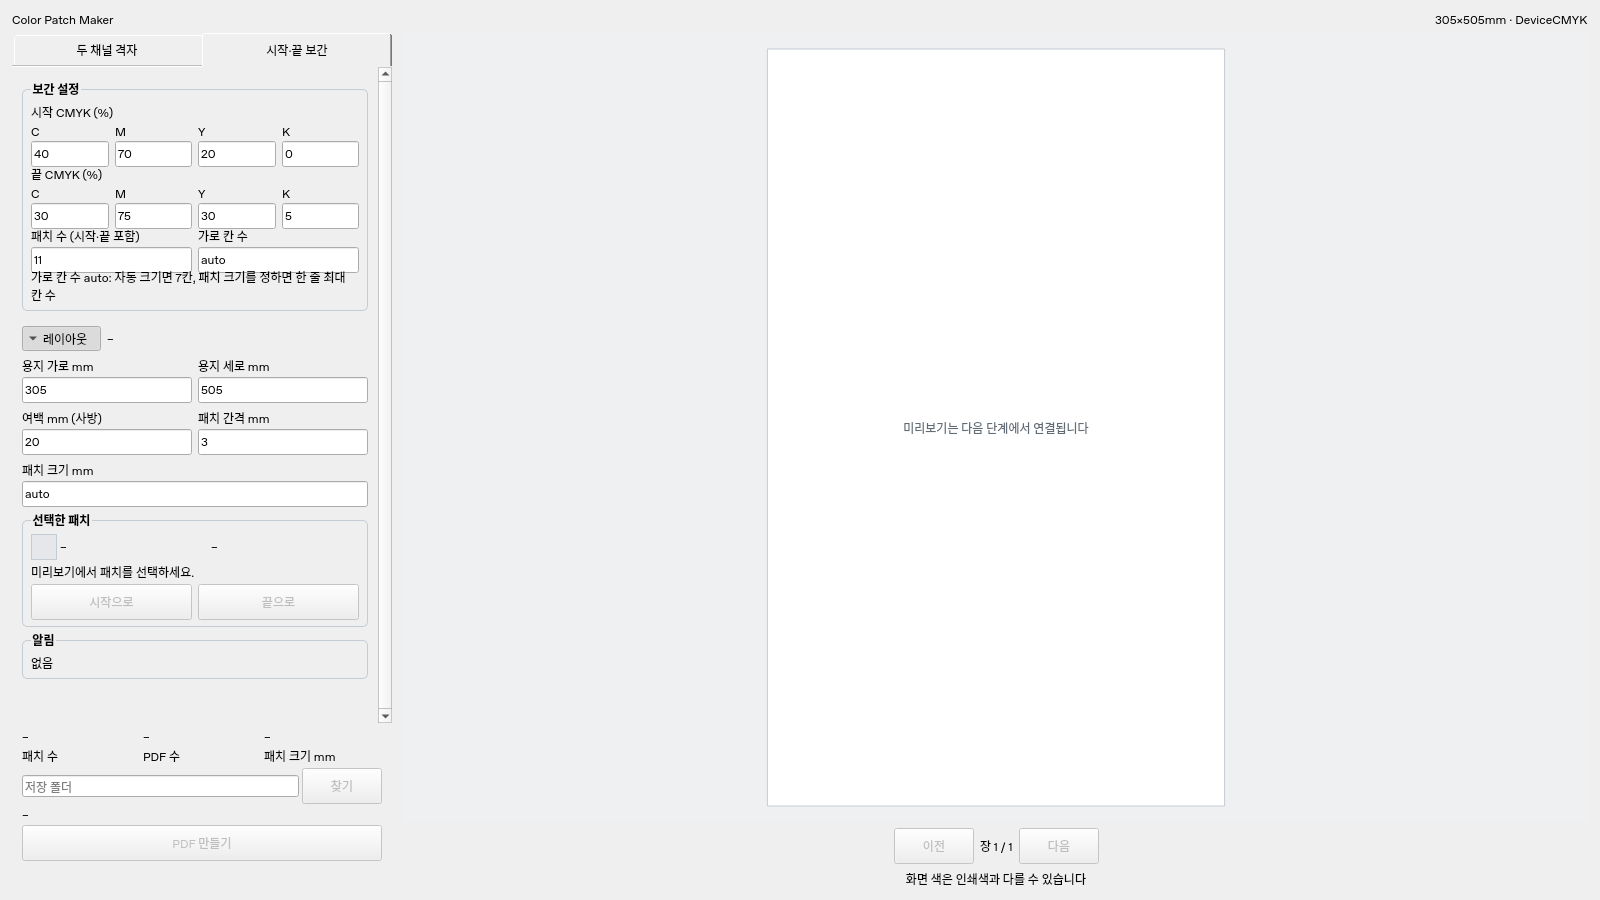
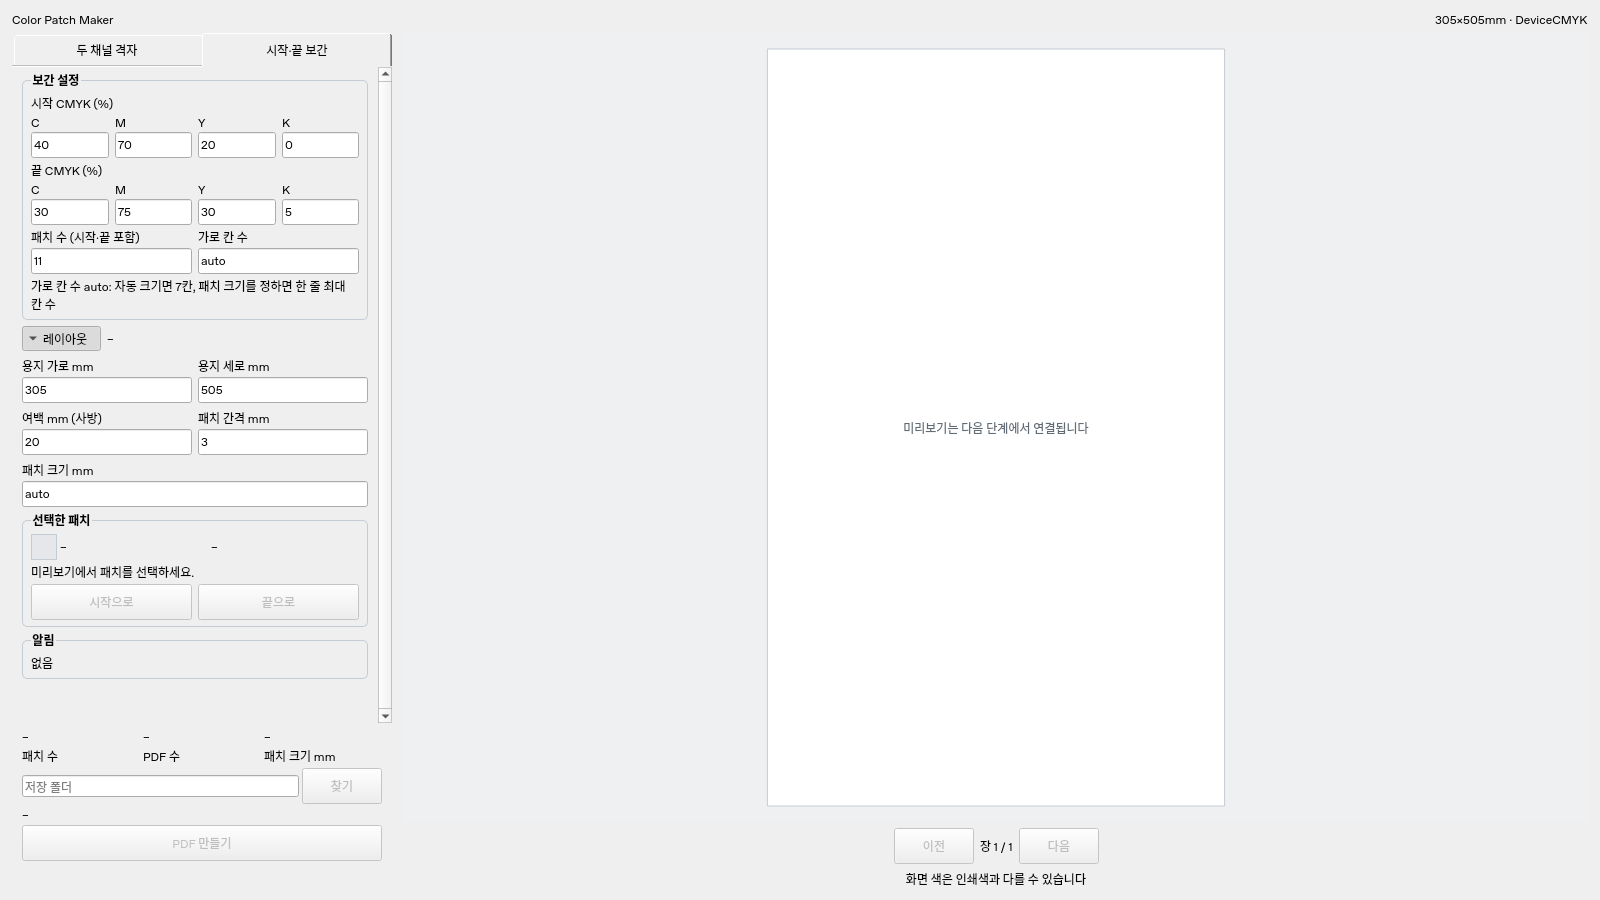
Stabilize shared GUI geometry across mode changes

Changed region(s): [[0.0, 0.2178, 0.2188, 0.3422], [0.0, 0.0622, 0.2188, 0.2178]]

diff --git a/color_patch_maker/gui/sidebar.py b/color_patch_maker/gui/sidebar.py
@@ -3,7 +3,7 @@ from PySide6.QtCore import Qt
 from PySide6.QtWidgets import (
     QWidget, QVBoxLayout, QHBoxLayout, QLabel, QLineEdit,
     QComboBox, QPushButton, QToolButton, QTabBar, QScrollArea, QGroupBox,
-    QSizePolicy,
+    QSizePolicy, QStackedWidget,
 )
 
 
@@ -38,6 +38,19 @@ class ErrorLabel(QLabel):
         self.setVisible(bool(text))
 
 
+class StableStack(QStackedWidget):
+    """Use all pages' wrapped heights, not just the active page's height."""
+    def heightForWidth(self, width):
+        return max(self.widget(i).heightForWidth(width) if self.widget(i).hasHeightForWidth()
+                   else self.widget(i).sizeHint().height() for i in range(self.count()))
+
+    def sizeHint(self):
+        hint = super().sizeHint()
+        if self.count() and self.width() > 0:
+            hint.setHeight(max(hint.height(), self.heightForWidth(self.width())))
+        return hint
+
+
 class Sidebar(QWidget):
     def __init__(self):
         super().__init__()
@@ -70,13 +83,23 @@ class Sidebar(QWidget):
         channel.addItems(['CM', 'CY', 'CK', 'MY', 'MK', 'YK'])
         self.row(grid, [('변형 채널', 'grid_channels', channel), ('간격 (%p)', 'grid_step', '1')])
         self.row(grid, [('가로 칸 수', 'grid_cols', '7'), ('세로 칸 수', 'grid_rows', '7')])
-        content.addWidget(self.grid_panel)
+        grid.addStretch()
         self.ramp_panel, ramp = self.group('보간 설정', 'ramp_panel')
         self.cmyk(ramp, '시작 CMYK (%)', 'ramp_start', (40, 70, 20, 0))
         self.cmyk(ramp, '끝 CMYK (%)', 'ramp_end', (30, 75, 30, 5))
         self.row(ramp, [('패치 수 (시작·끝 포함)', 'ramp_count', '11'), ('가로 칸 수', 'ramp_cols', 'auto')])
         ramp.addWidget(label('가로 칸 수 auto: 자동 크기면 7칸, 패치 크기를 정하면 한 줄 최대 칸 수', 'ramp_auto_hint'))
-        content.addWidget(self.ramp_panel)
+        ramp.addStretch()
+        self.mode_panels = named(StableStack(), 'mode_panels')
+        self.mode_panels.setSizePolicy(QSizePolicy.Policy.Preferred, QSizePolicy.Policy.Maximum)
+        for panel in (self.grid_panel, self.ramp_panel):
+            page = QWidget()
+            page_layout = QVBoxLayout(page)
+            page_layout.setContentsMargins(0, 0, 0, 0)
+            panel.setSizePolicy(QSizePolicy.Policy.Preferred, QSizePolicy.Policy.Expanding)
+            page_layout.addWidget(panel)
+            self.mode_panels.addWidget(page)
+        content.addWidget(self.mode_panels)
 
         layout_box = named(QWidget(), 'layout_section')
         layout_outer = QVBoxLayout(layout_box)
@@ -115,13 +138,17 @@ class Sidebar(QWidget):
         picked_layout.addLayout(selected_row)
         picked_layout.addWidget(label('미리보기에서 패치를 선택하세요.', 'selection_hint'))
         self.use_base = button('이 값을 기준으로', 'use_as_base_button')
-        picked_layout.addWidget(self.use_base)
+
         self.ramp_actions = QWidget()
         actions = QHBoxLayout(self.ramp_actions)
         actions.setContentsMargins(0, 0, 0, 0)
         actions.addWidget(button('시작으로', 'use_as_start_button'))
         actions.addWidget(button('끝으로', 'use_as_end_button'))
-        picked_layout.addWidget(self.ramp_actions)
+        self.selection_actions = named(QStackedWidget(), 'selection_actions')
+        self.selection_actions.setSizePolicy(QSizePolicy.Policy.Preferred, QSizePolicy.Policy.Maximum)
+        self.selection_actions.addWidget(self.use_base)
+        self.selection_actions.addWidget(self.ramp_actions)
+        picked_layout.addWidget(self.selection_actions)
         content.addWidget(picked)
         warnings, warnings_layout = self.group('알림', 'warnings_panel')
         warnings_layout.addWidget(label('없음', 'warning_list'))
@@ -192,10 +219,8 @@ class Sidebar(QWidget):
         self.row(parent, [(c, f'{prefix}_{c.lower()}', str(v)) for c, v in zip('CMYK', values)])
 
     def set_mode(self, index):
-        self.grid_panel.setVisible(index == 0)
-        self.ramp_panel.setVisible(index == 1)
-        self.use_base.setVisible(index == 0)
-        self.ramp_actions.setVisible(index == 1)
+        self.mode_panels.setCurrentIndex(index)
+        self.selection_actions.setCurrentIndex(index)
 
     def toggle_layout(self, expanded):
         self.layout_fields.setVisible(expanded)

diff --git a/tests/test_gui.py b/tests/test_gui.py
@@ -149,3 +149,24 @@ def test_collapsed_warnings_visible_and_error_growth(window, app, mode):
     app.processEvents(); QTest.qWait(30)
     assert all(not error.isVisible() for error in errors)
     assert viewport.rect().contains(visible_rect(warnings))
+
+
+@pytest.mark.parametrize('size', [(1024,720), (1600,900), (1200,800)])
+@pytest.mark.parametrize('expanded', [False, True])
+def test_tab_switch_preserves_shared_geometry(window, app, size, expanded):
+    window.resize(*size)
+    s = window.sidebar
+    s.layout_toggle.setChecked(expanded)
+    app.processEvents(); QTest.qWait(30)
+    names = ['mode_panels', 'layout_section', 'selected_panel', 'warnings_panel', 'output_footer']
+    def geometry():
+        return [window.findChild(QWidget, name).geometry() for name in names]
+    original = geometry()
+    first = window.findChild(QWidget, 'grid_cmyk_c')
+    first_position = first.mapTo(s, first.rect().topLeft())
+    for mode in [1, 0, 1, 0]:
+        s.tabs.setCurrentIndex(mode)
+        app.processEvents(); QTest.qWait(30)
+        assert geometry() == original
+        current = window.findChild(QWidget, 'ramp_start_c' if mode else 'grid_cmyk_c')
+        assert current.mapTo(s, current.rect().topLeft()) == first_position

diff --git a/docs/PROGRESS.md b/docs/PROGRESS.md
@@ -57,6 +57,7 @@
 | 2026-11-09 | 1단계 엔진·CLI, 의존성 고정, 콘솔 빌드 | Linux x86_64, Python 3.12.14: pytest 30개 통과. PyInstaller 단일 실행 파일로 grid/ramp 생성 및 verify 통과 | 2단계 GUI |
 | 2026-11-09 | GUI 레이아웃·위젯 배치 | Linux / Python 3.12.14 / PySide6 6.8.3: 전체 331개 통과(기존 323 + GUI 8), 캡처 8장 | 다음 PR에서 엔진 연결 |
 | 2026-11-09 | PR #2 리뷰 반영: 기본 화면 압축·용지 정보 이름·이력 표 | 전체 333개 통과, 최종 헤더 수정 후 GUI 10개 재통과, 캡처 8장 갱신 | 엔진 연결 |
+| 2026-11-09 | 탭 전환 레이아웃 안정화 | Linux offscreen 전체 339개 통과(엔진 323 + GUI 16), 캡처 갱신 | Windows 화면 재확인 및 엔진 연결 |
 
 ### 1단계 검증 범위와 한계
 
@@ -98,3 +99,11 @@
 - Linux / Python 3.12.14 / PySide6 6.8.3: `QT_QPA_PLATFORM=offscreen .venv/bin/python -m pytest -q` 333개 통과. 최종 헤더의 줄바꿈 방지 수정 후 `tests/test_gui.py` 10개 재통과. 실패·건너뜀 없음.
 - 초기 회귀 검사에서 보간 알림 가림과 오류 표시 시 레이아웃 변화를 발견해 수정 후 재검사했다. 큰 창에서 펼친 내용이 모두 들어가는 경우 스크롤이 필요 없다는 점을 기존 테스트에 반영했다.
 - `scripts/capture_gui.py`로 PNG 8장을 갱신하고 두 탭의 1024×720 기본 화면을 확인했다. `git diff --check` 통과.
+
+### 탭 전환 레이아웃 안정화
+
+- 두 방식 패널을 같은 스택 영역에 배치하고, 모든 페이지의 줄바꿈 높이를 반영해 공통 높이를 정한다. 입력은 위쪽에 정렬하고 격자 패널의 남는 공간은 아래에 둔다.
+- 선택한 패치 버튼도 같은 스택 영역에서 전환한다. 레이아웃·선택한 패치·알림 위치가 탭에 따라 이동하지 않는다.
+- `QT_QPA_PLATFORM=offscreen .venv/bin/python -m pytest -q`: Linux / Python 3.12.14 / PySide6 6.8.3에서 339개 통과, 실패·건너뜀 없음.
+- 1024×720, 1200×800, 1600×900과 레이아웃 접힘·펼침 상태에서 반복 탭 전환 시 공통 영역 및 첫 CMYK 입력 위치 불변을 검사했다. 기존 기본 화면 알림 가시성·오류 표시 테스트도 통과했다.
+- `scripts/capture_gui.py`로 PNG 8장을 갱신했다. Windows 네이티브 실행은 이 환경에서 확인하지 못했으며 제공된 Windows 화면의 위치 이동을 회귀 조건으로 반영했다.
